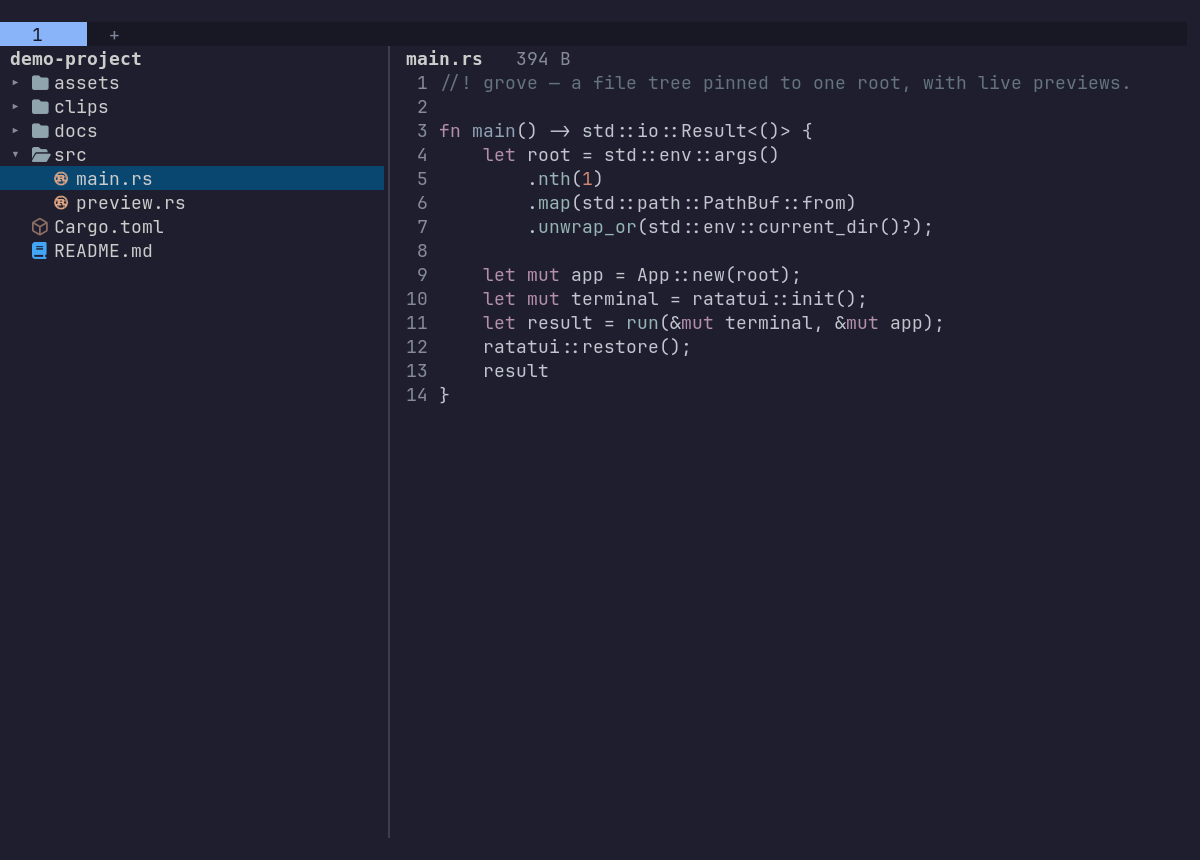
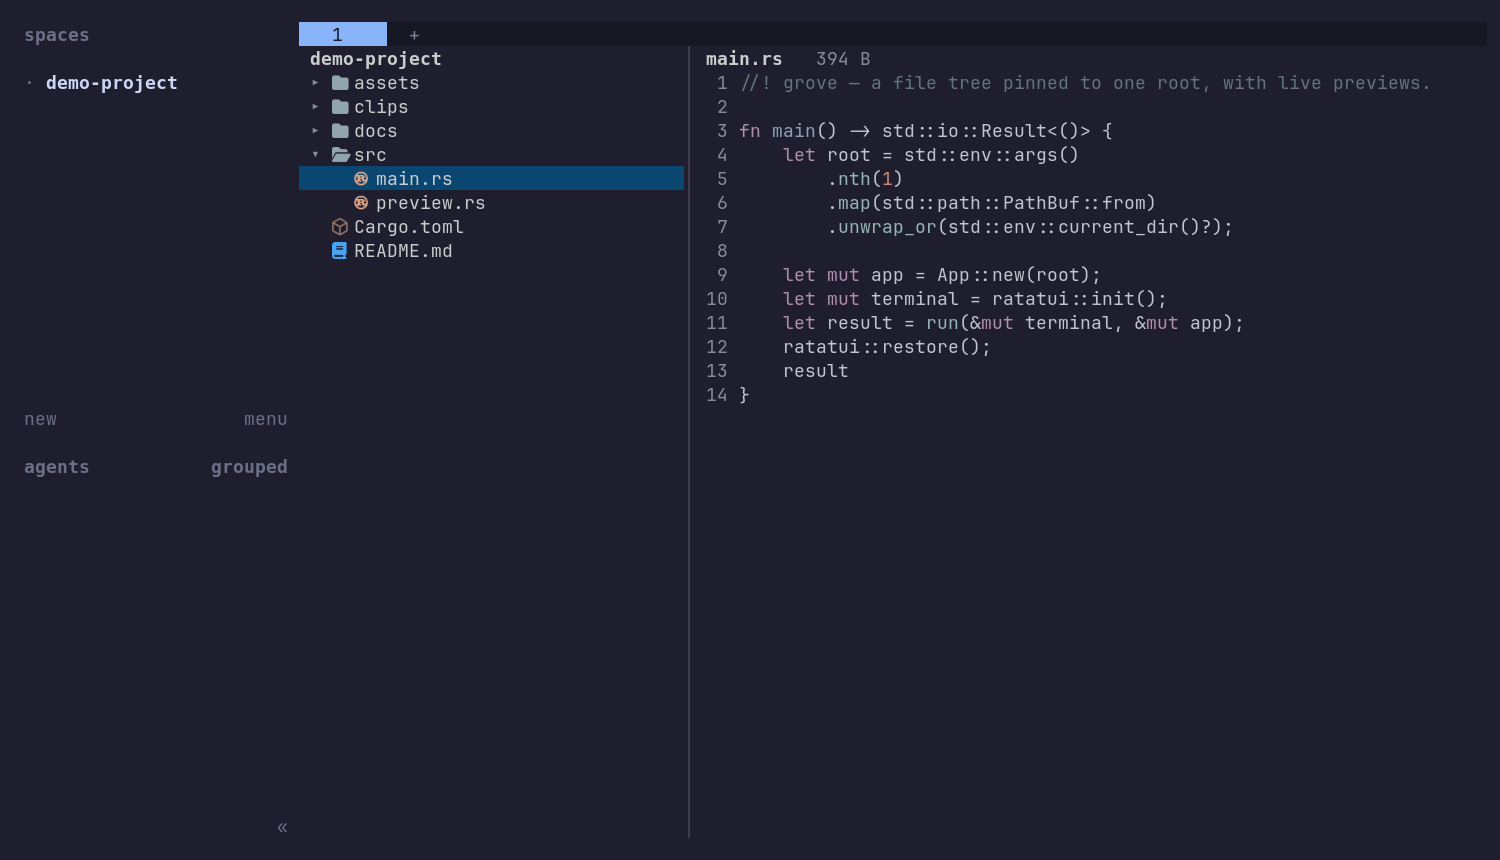
Screenshots: keep herdr's frame in shot
grove is a herdr program — a picture of it sitting in a herdr session, sidebar
and tab bar included, says so without a caption. CROP_LEFT still trims the frame
for anyone who wants grove on its own.

Claude-Session: https://claude.ai/code/session_01XgKf3APn2AqKB9kSMS4EYZ

diff --git a/README.md b/README.md
@@ -173,6 +173,10 @@ herdr, a Nerd Font and grove, brings up a virtual X display, runs herdr inside a
 real kitty on it, runs grove inside that, walks the tree with arrow keys and
 photographs the X root window.
 
+The shots keep herdr's own frame — the spaces sidebar and the tab bar — because
+grove is a herdr program and a picture of it sitting in a herdr session says so
+without a caption. `CROP_LEFT=300` trims it off if you want grove alone.
+
 It has to work that way. The usual approach — asciinema plus a renderer like agg —
 records the escape-sequence stream, and grove's previews are not in it: herdr
 composites them as kitty graphics outside the text grid. A recording would show
